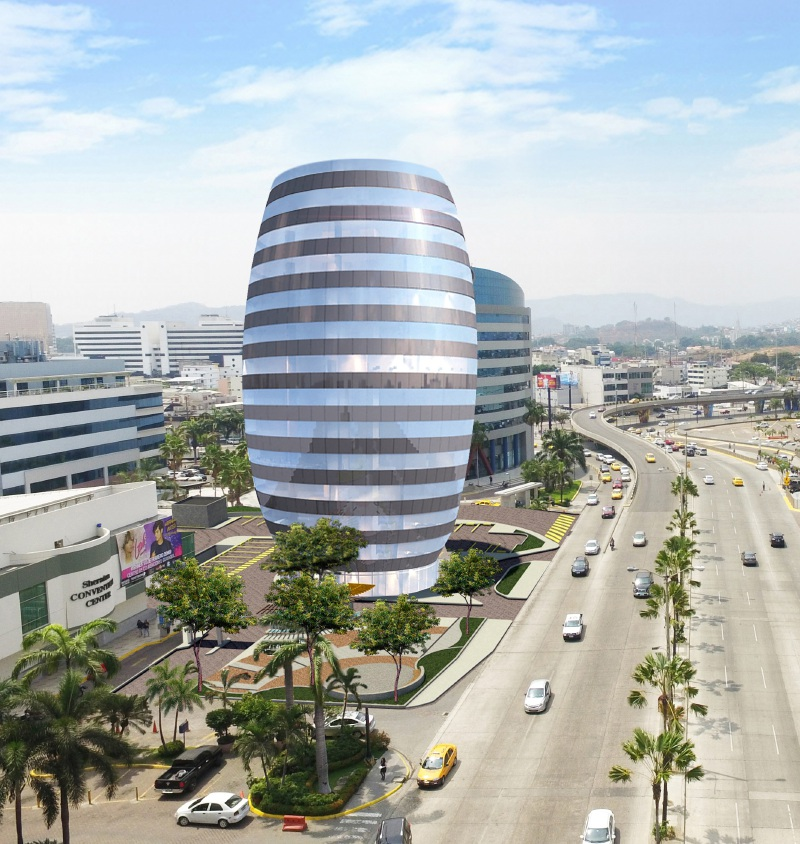
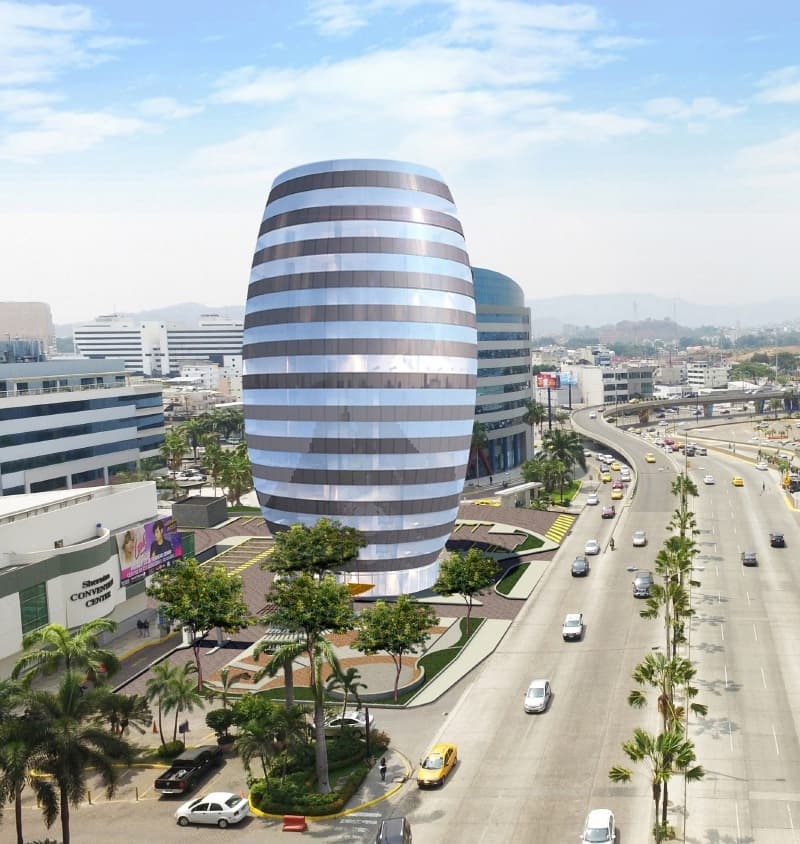
change size of the image

diff --git a/chamber/styles/main.css b/chamber/styles/main.css
@@ -467,9 +467,7 @@ form legend {
 }
 
 
-.level-cards {
-    animation: fadeIn 1.5s ease-in;
-}
+
 
 @keyframes fadeIn {
     from {
@@ -523,6 +521,7 @@ form legend {
 
 .level-cards {
     margin-right: 5rem;
+    animation: fadeIn 1.5s ease-in;
 }
 
 .mCard {
@@ -628,7 +627,7 @@ form legend {
 
 .places div img {
     width: 100%;
-    width: 300px;
+    max-width: 300px;
     height: 200px;
     grid-area: photograph;
 }
